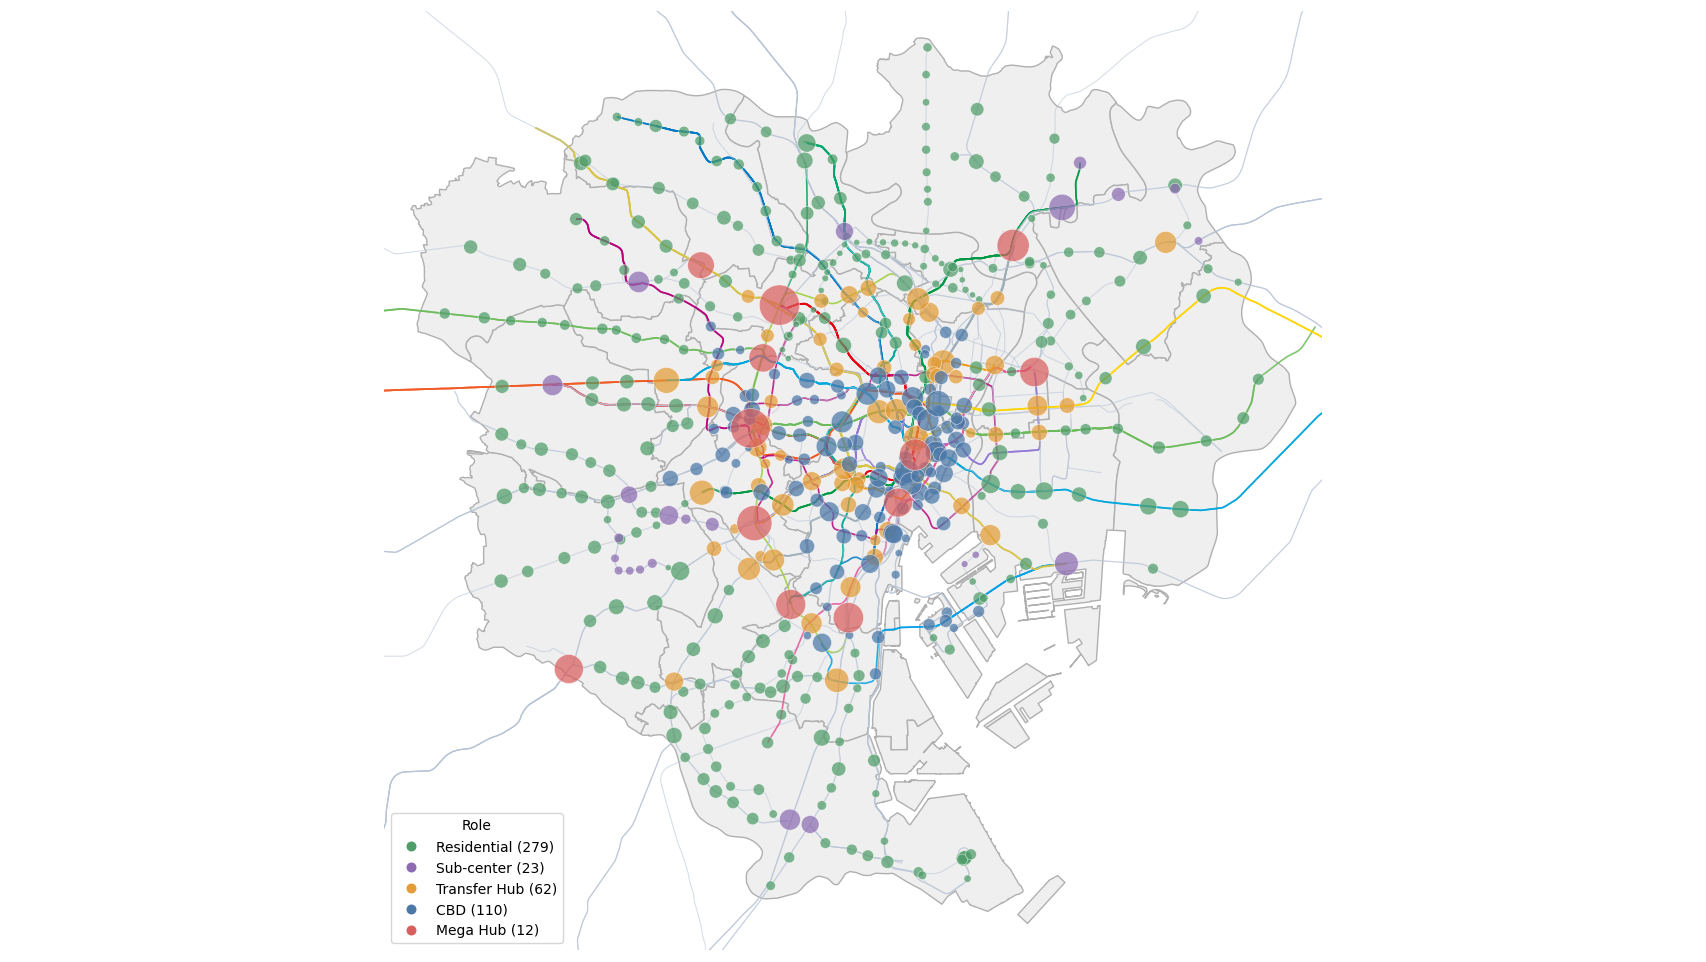
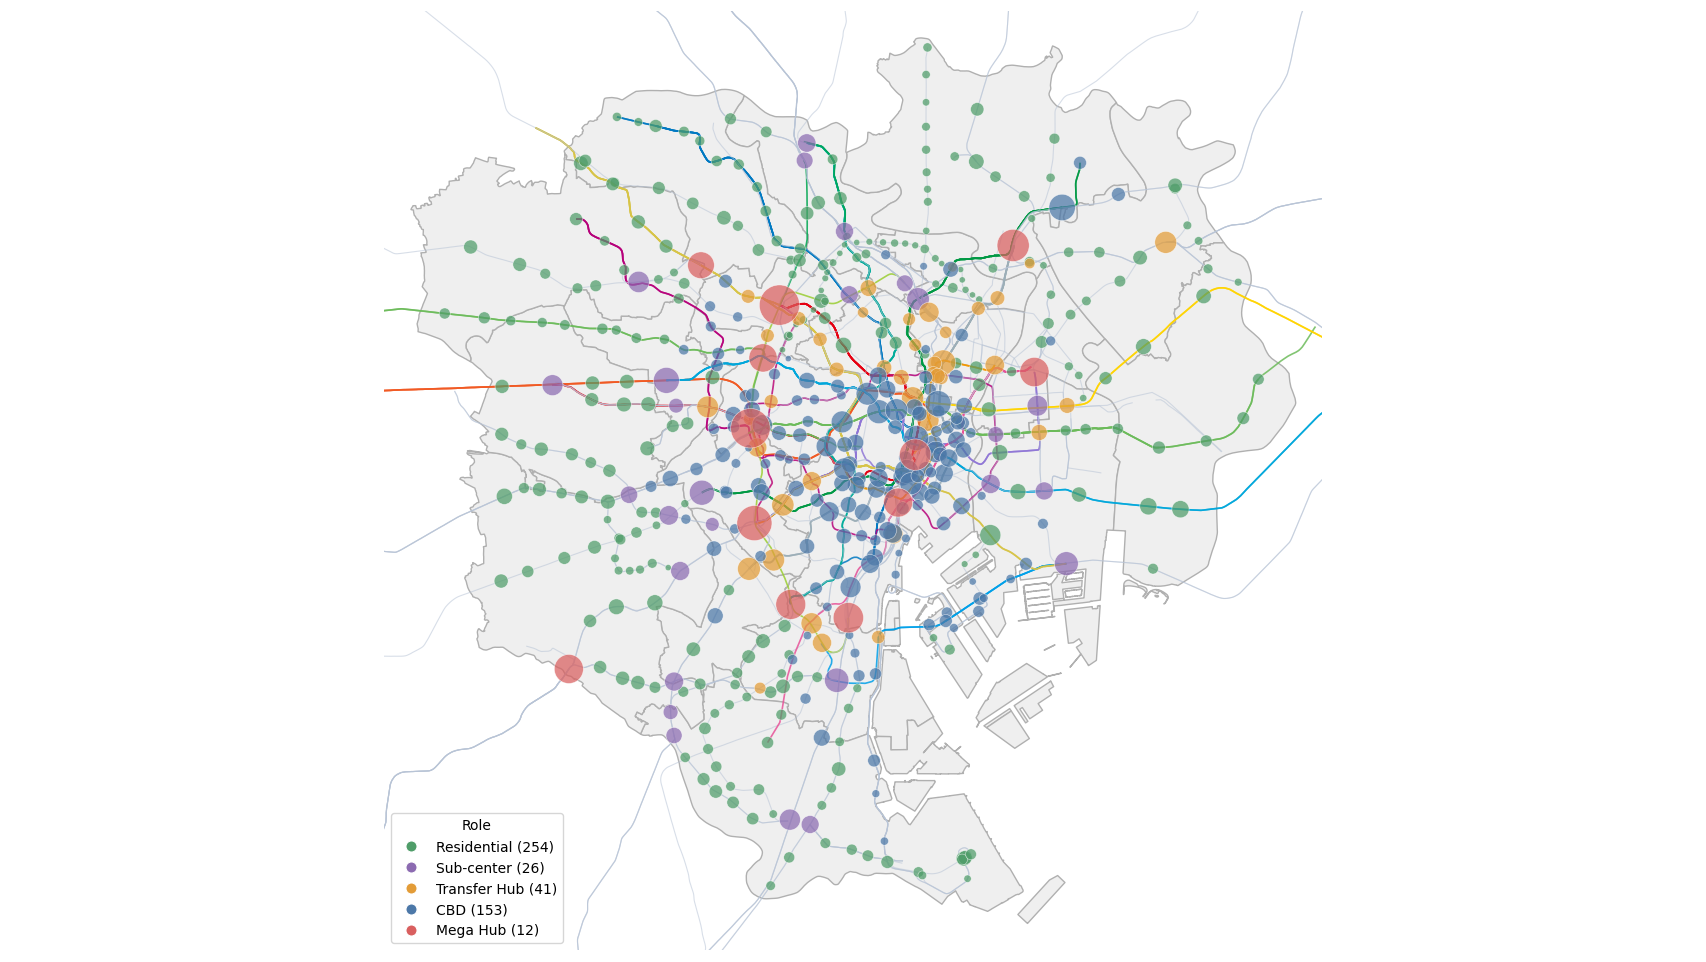
Update

diff --git a/tokyo-railway-network-analysis.py b/tokyo-railway-network-analysis.py
@@ -65,7 +65,7 @@ HUB_Q = 0.97
 MAX_HOP = 2
 LOCAL_EPS = 1.0
 
-GMM_K = 5
+GMM_K = 12
 RAND = 42
 
 TOKYO23 = [
@@ -844,12 +844,12 @@ scale_df = pd.DataFrame({
 })
 
 corr = df[feat].corr()
-print("\n=== Feature correlation ===")
+print("\n=== Axes correlation ===")
 print(corr.round(3).to_string())
 
 plt.figure(figsize=(8, 6))
 sns.heatmap(corr, annot=True, cmap="coolwarm", center=0, fmt=".2f")
-plt.title("Feature correlation")
+plt.title("Axes correlation")
 plt.tight_layout()
 plt.show()
 
